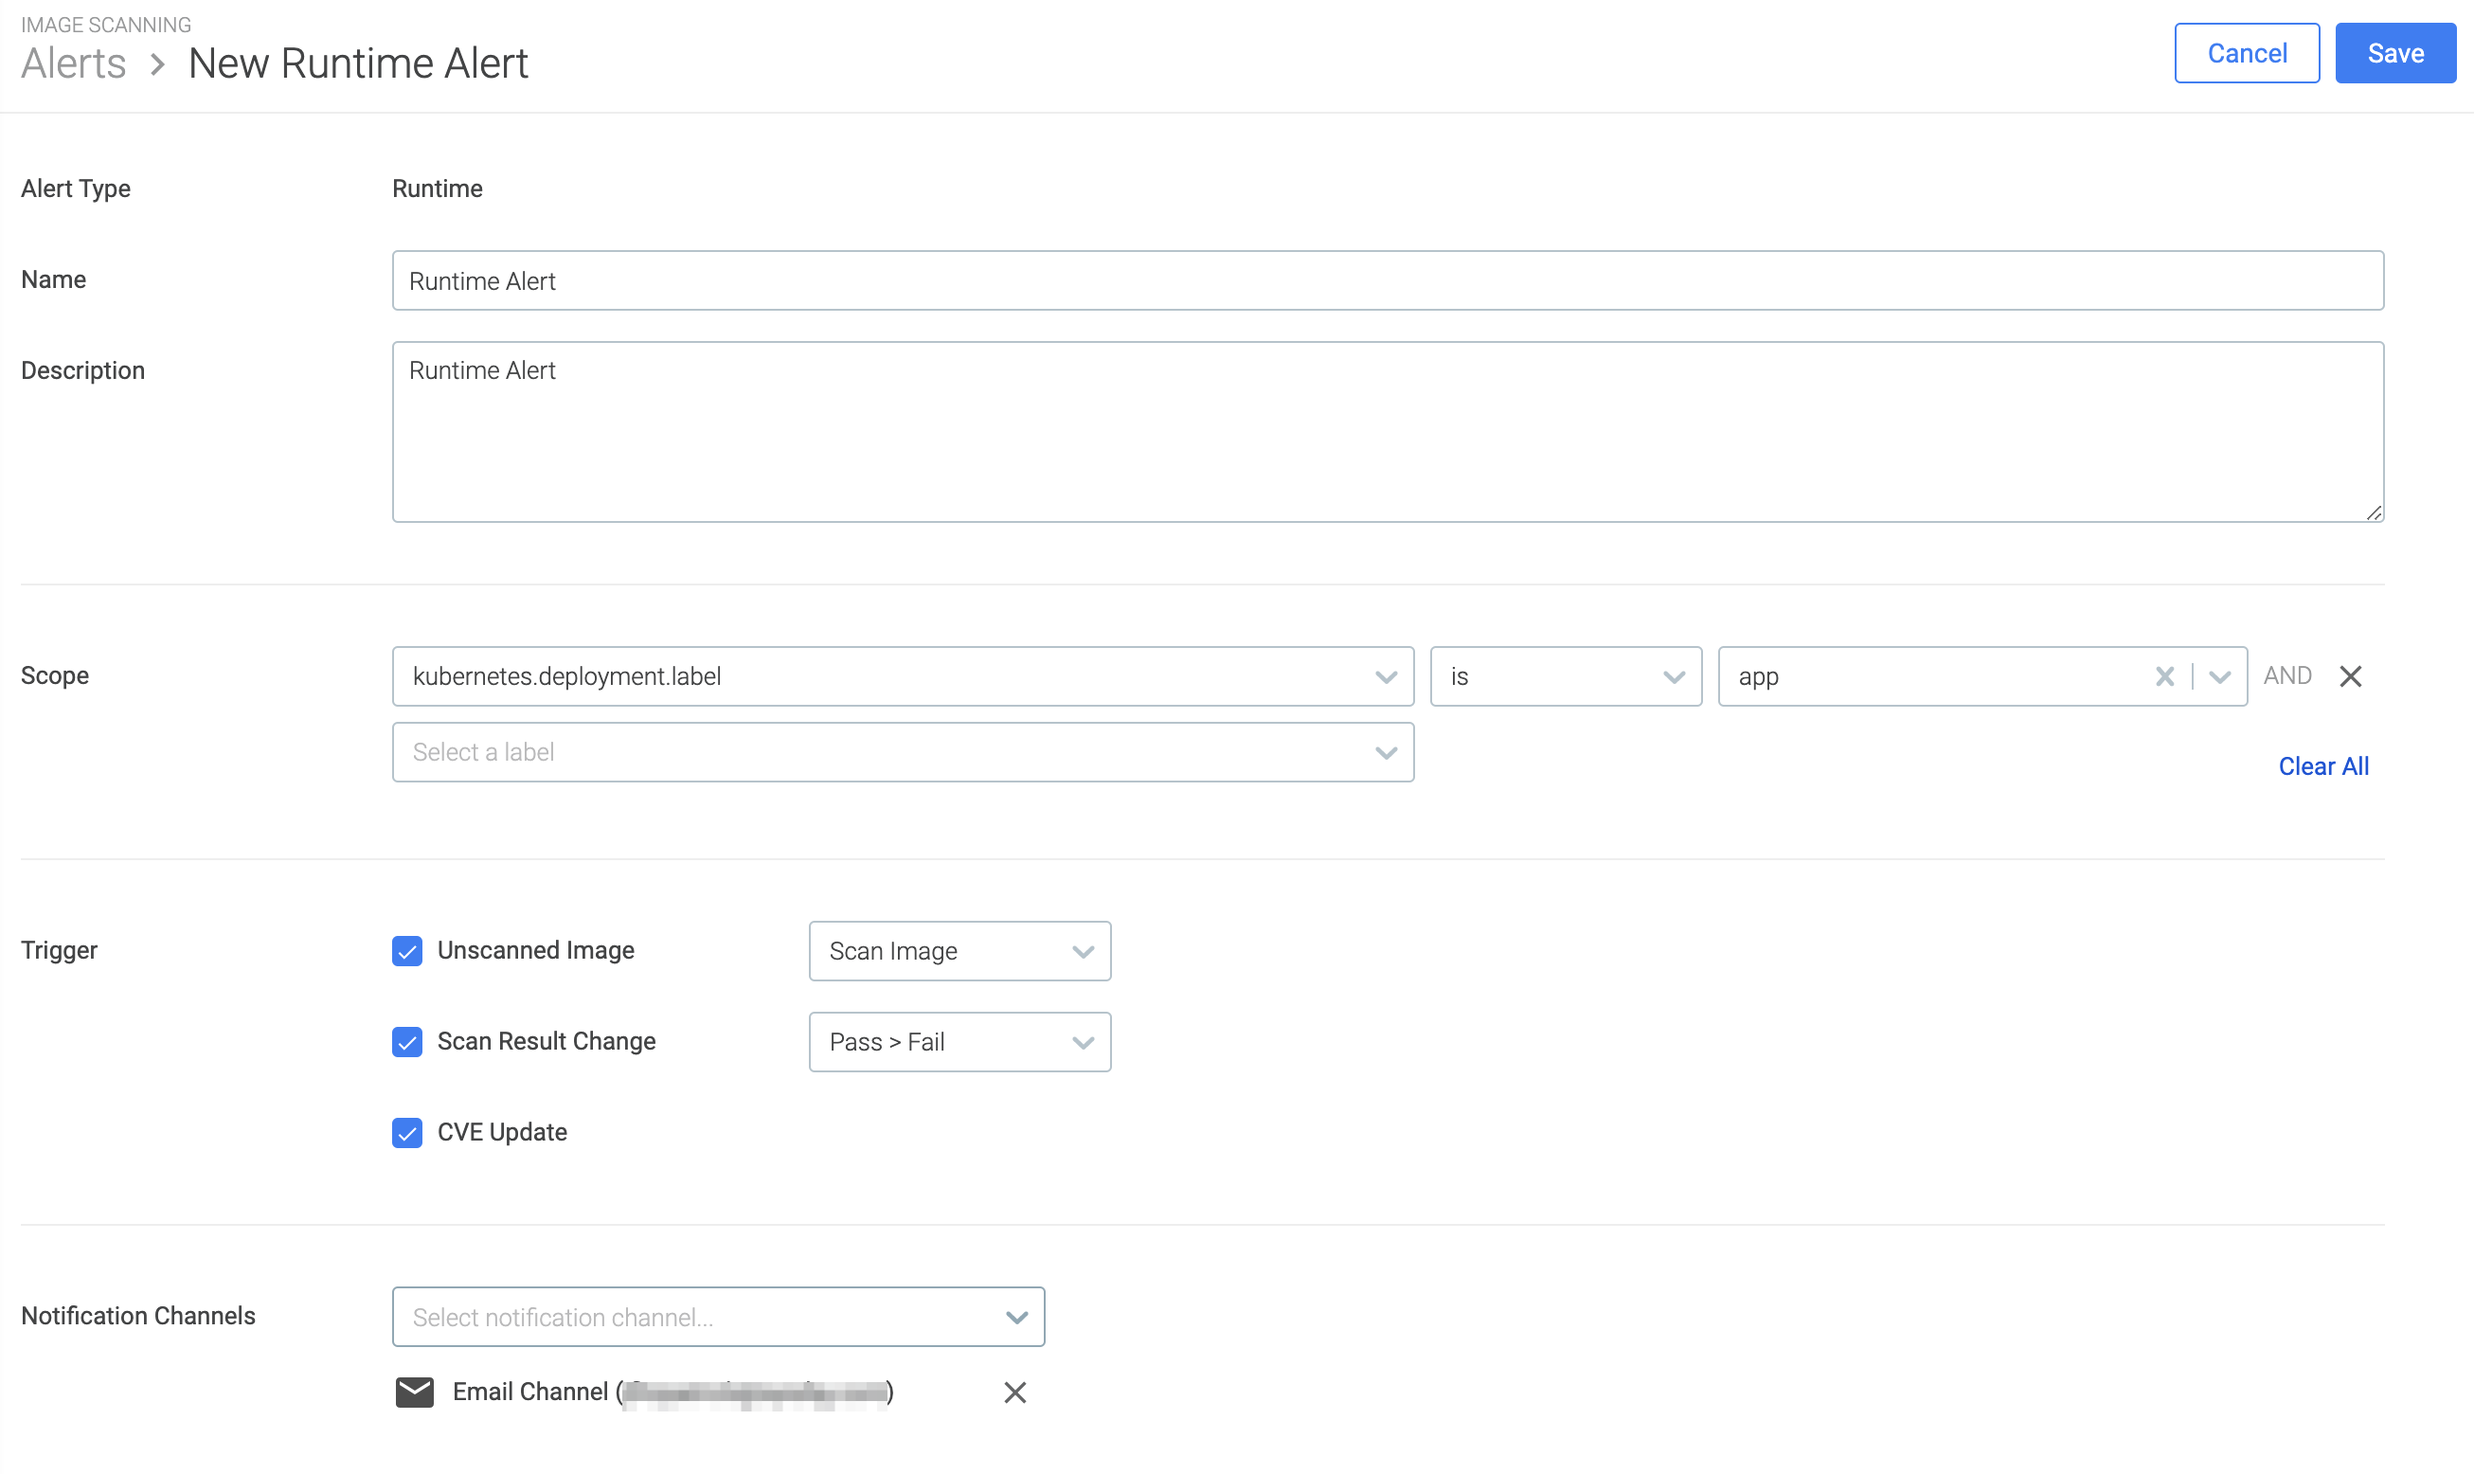
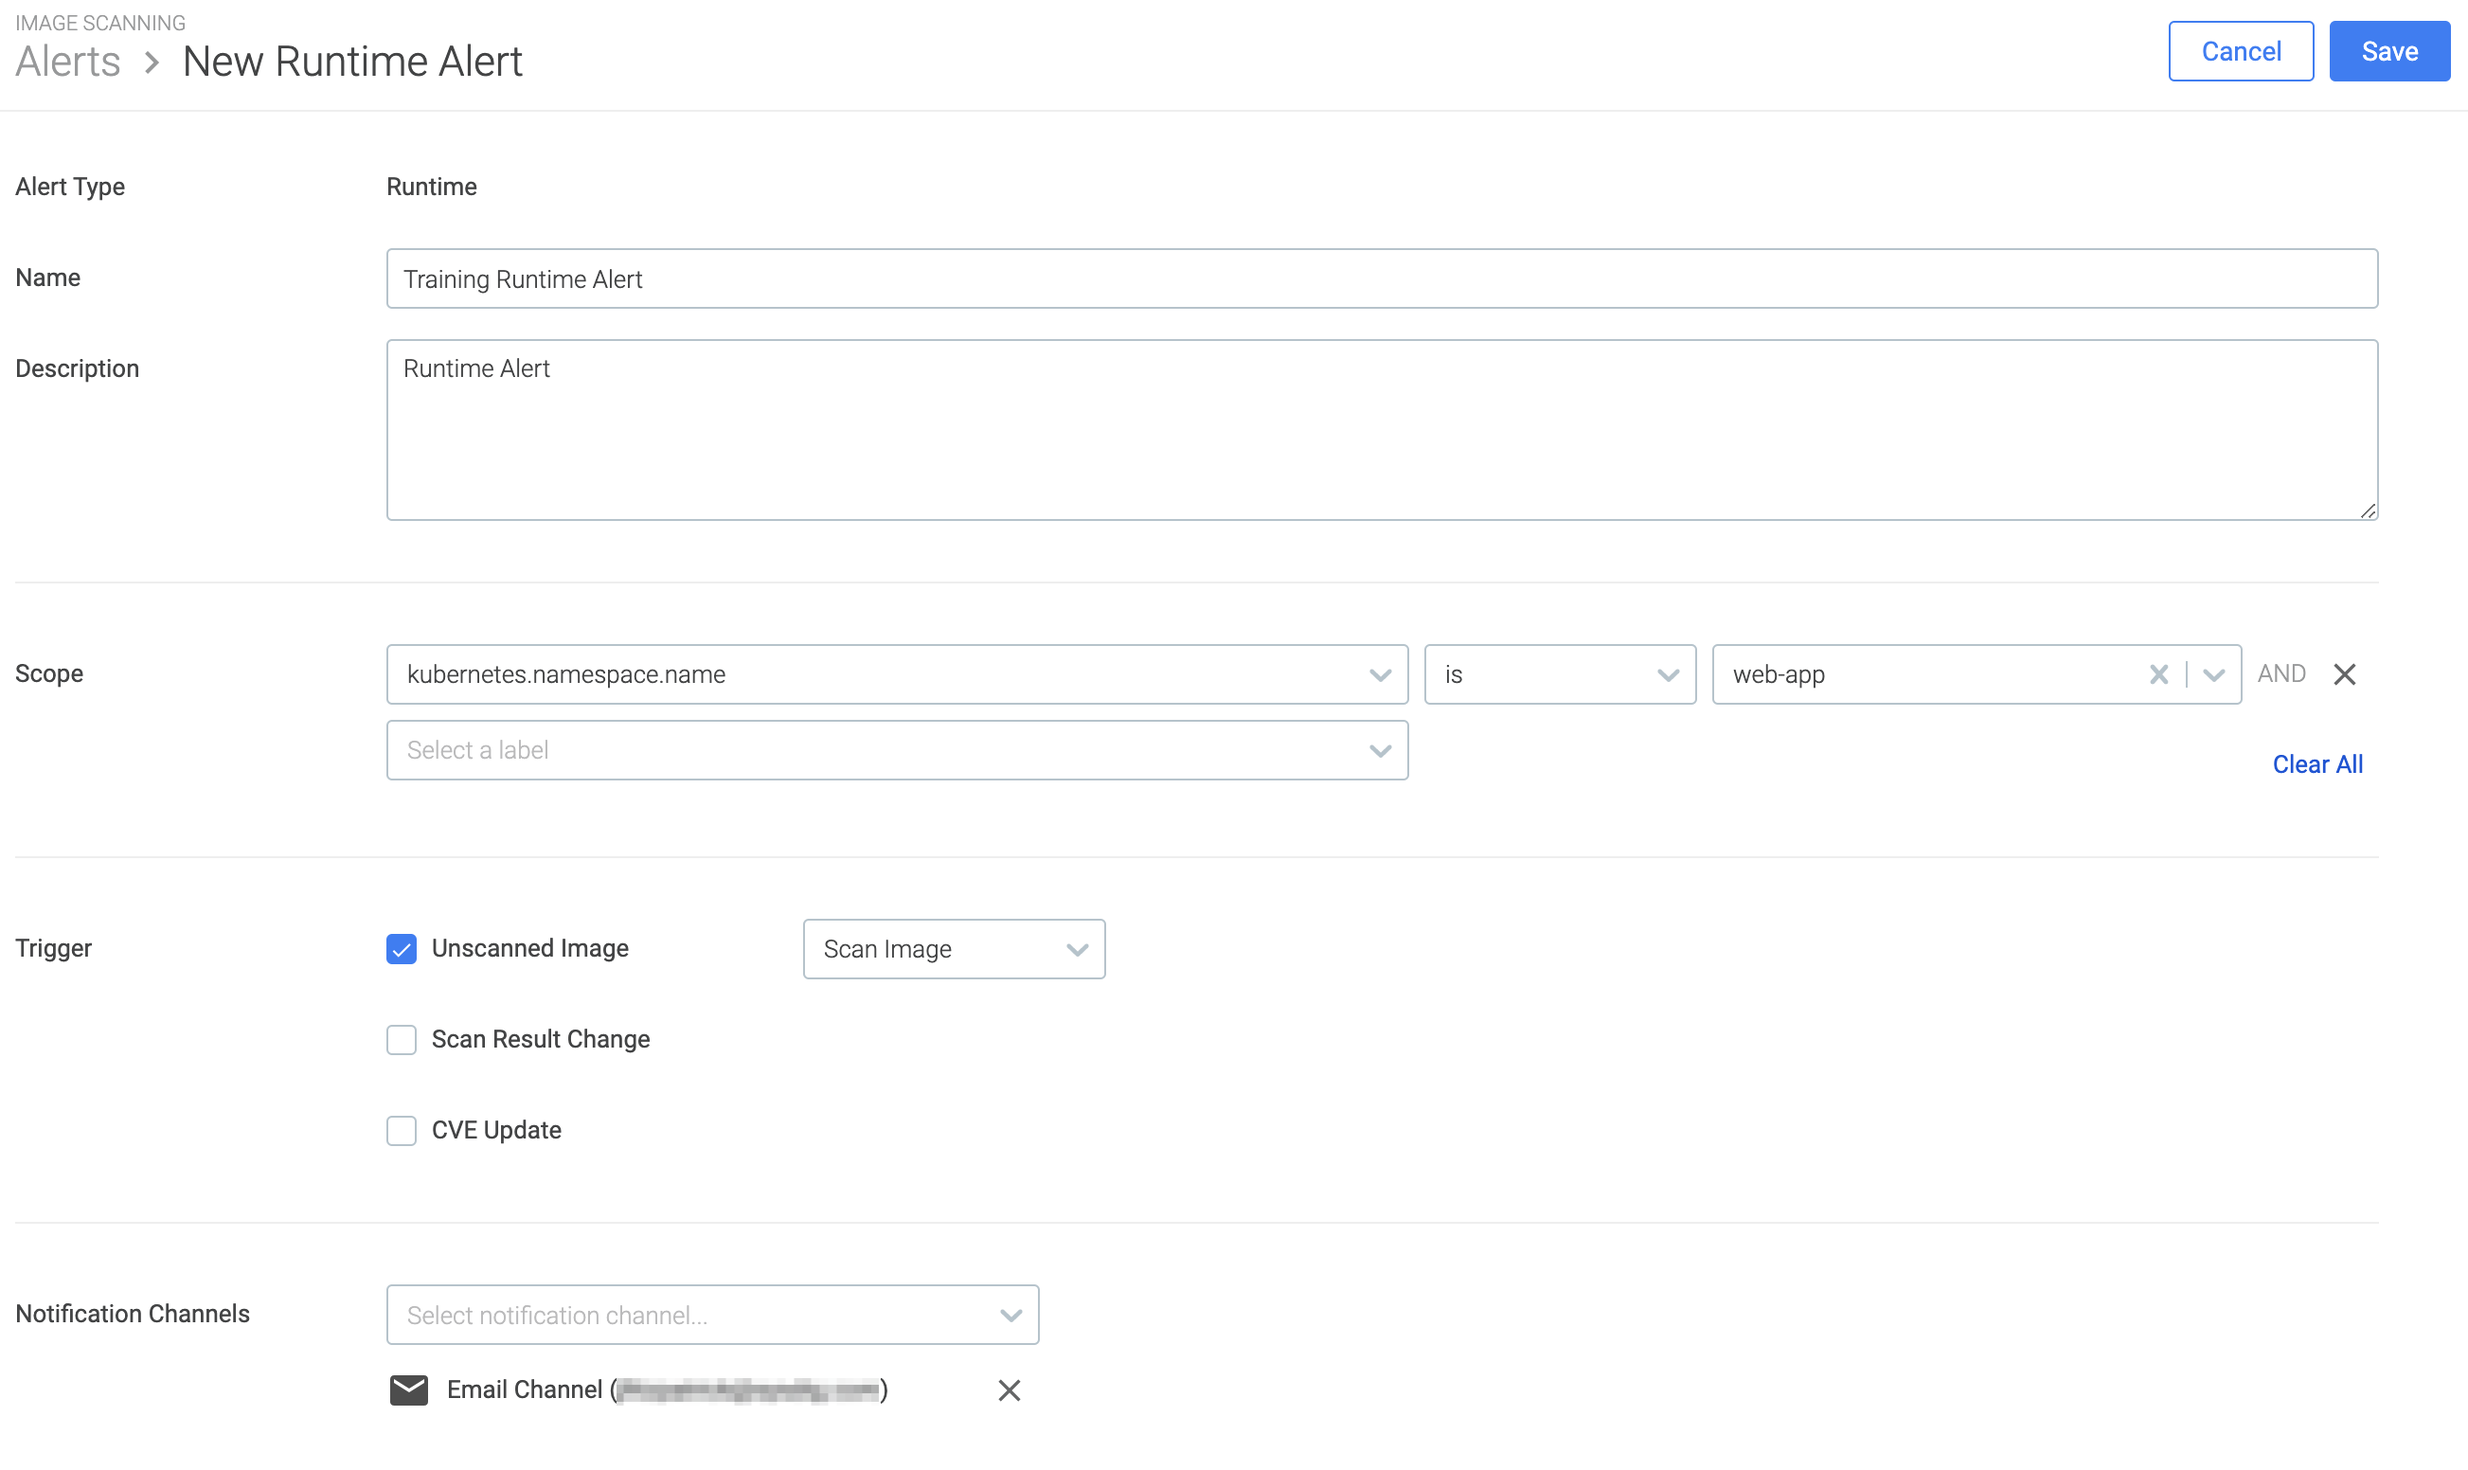
Updates

diff --git a/secure/secure-image-scanning-policies-and-assignments/step11.md b/secure/secure-image-scanning-policies-and-assignments/step11.md
@@ -24,7 +24,7 @@ Click ‘Add Alert’, then select 'Runtime Alert'.
 
  - The 'Description' is arbitrary text
 
- - For 'Scope' select `kubernetes.deployment.label` `is` `web-app`
+ - For 'Scope' select `kubernetes.namespace.label` `is` `web-app`
 
     Leaving the 'Scope' field blank implies the alert will be raised across the entire infrastructure.  In a live environment you may wish to narrow the scope of the alerts.  The scope may be based on various metadata related to, for example, container, kubernetes, host, cloud or OS specific.
 
@@ -36,6 +36,13 @@ Click ‘Add Alert’, then select 'Runtime Alert'.
 
  - For 'Notification' select a configured notification channel (e.g. email) to be used for alert notifications. If no notification channels have been defined for your Sysdig Secure environment yet, see [Set Up Notification Channels](https://docs.sysdig.com/en/set-up-notification-channels.html).
 
- Click Save.
+Click Save.
+
+Now introduce a new container, and see if it scans and you get a notification. Run the following command
+
+```
+kubectl apply -f manifests/nginx-2.yaml -n web-app
+```
+This updates the `web-app` deployment with a more recent version of `nginx`.
 
 # Repository Alert
